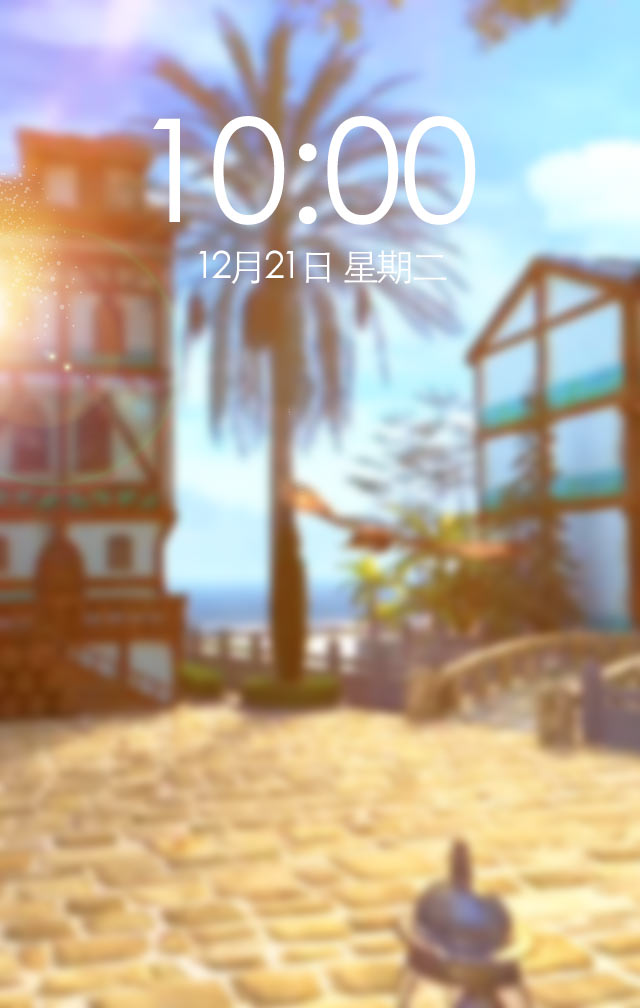
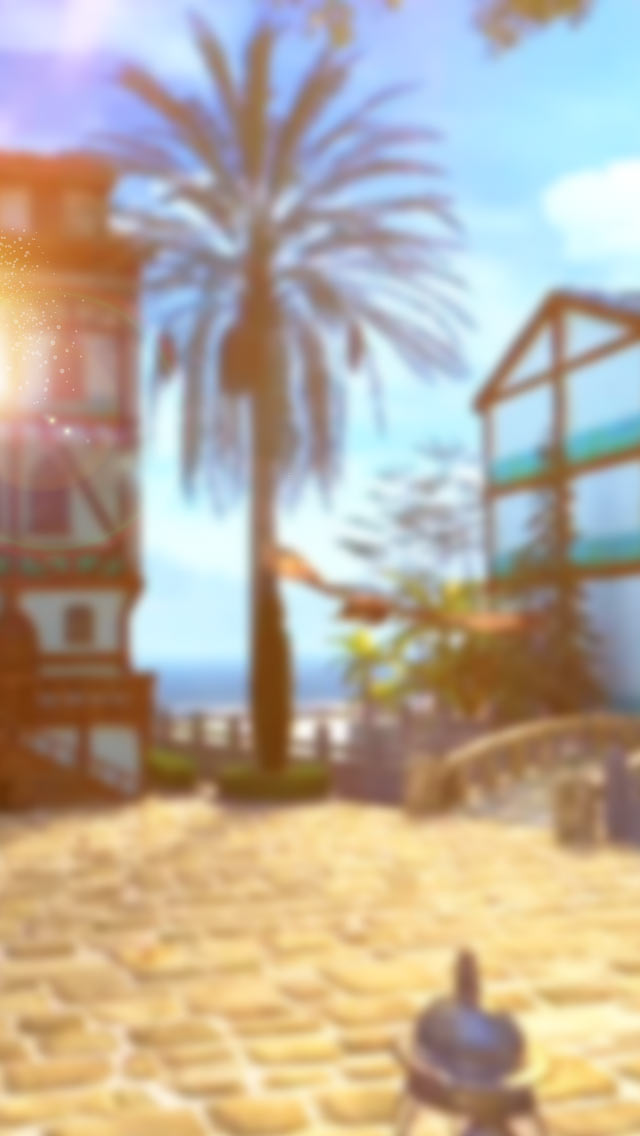
1534

diff --git a/视频测试/css/style.css b/视频测试/css/style.css
@@ -60,7 +60,8 @@ html,body{
 html,body {width: 100%;height:100%; overflow: hidden;}
 .content{width: 640px; margin: 0 auto;}
 .page{position: absolute;top:0;left:0;width: 100%;height:100%;}
-.page1{z-index: 2;}
+.page1{z-index: 2;background: url(../images/bg.jpg) no-repeat;-webkit-background-size: 100% auto;
+background-size: 100% auto;}
 .page2{z-index: 1;}
 #page-wrap { width: 610px;height:123px; position: absolute;bottom:10%;left:15px;}
 /*#well {padding: 14px 20px 10px 20px;border-radius: 30px;background: -webkit-gradient(linear,left top,left bottom,color-stop(0, #010101),color-stop(1, #181818));border: 2px solid #454545;}*/
@@ -69,8 +70,8 @@ html,body {width: 100%;height:100%; overflow: hidden;}
 .slider_box{width:676px ;height:98px; overflow: hidden;z-index:999;}
 #slider {position: absolute;top:18px;left:50px;width: 146px;height: 98px;-webkit-background-size: 100% auto;
 background-size: 100% auto;}
-.video-box{background-color: #000;position: absolute;top: 50%;left: 50%;z-index: 8;width: 730px;height: 100%;overflow: hidden;transform:translate(-50%,-50%);-webkit-transform:translate(-50%,-50%);}
-.video{width: 100%;}
+.video-box{position: absolute;top: 50%;left: 50%;z-index: 8;width: 640px;height: 100%;overflow: hidden;transform:translate(-50%,-50%);-webkit-transform:translate(-50%,-50%);}
+
 .page1-con{width: 100%;padding-top: 66.55%;position: absolute;top: 0;left: 0;background: url(../images/bg.jpg) no-repeat;height: 100%;-webkit-background-size: 100% auto;
 background-size: 100% auto;}
   @-webkit-keyframes slidetounlock {0% {background-position: -720px 0;}100%{background-position: 720px 0;}}
@@ -107,7 +108,8 @@ background-size: 100% auto;}
 /* -webkit-transform: none;*/
 /* -ms-transform: none;*/
 /* transform: none;}*/
-
+.page1 .nickname{font-size: 12rem; display: block;line-height: 11rem;}
+.page1 .txt{overflow: hidden;text-align: center;padding-top: 150px;font-size: 2.8rem;color: #fff;line-height: 2.5rem;}
 
 .spe{ background-size: 100% auto; background-repeat: no-repeat;}
 .page3{width: 640px; height: 100%;background-image: url("../images/bg_end.jpg");}
@@ -136,6 +138,19 @@ background-size: 100% auto;}
 
 .down_bg{position: absolute;top:0;left:0;text-align: center;width: 100%;z-index: 100;display: none;}
 
+.video-box.anim{
+  -webkit-animation:test 3s steps(30,end) both;
+  animation:test 3s steps(30,end) infinite both;
+  background:url(../images/anim.jpg) repeat-x;
+  /*animation-timing-function:linear;*/
+}
 
-
+@-webkit-keyframes test {
+  0% {background-position:0 0;}
+  100% {background-position:-3000% 0;}
+}
+@keyframes test {
+  0% {background-position:0 0;}
+  100% {background-position: -3000% 0;}
+}
 

diff --git a/视频测试/index.html b/视频测试/index.html
@@ -33,7 +33,12 @@
 <body>
   <div class="content">
      <div class="page page1" id="page1" >
+        <div class="txt">
+             <span class="nickname">10:00</span>
+             <span>12月21日 &nbsp;&nbsp;星期二</span>
+        </div>      
       <div id="page-wrap">
+
         <div id="well">
              <h2>&gt; 滑动以解锁</h2>
              <div class="slider_box"><strong id="slider"></strong></div>
@@ -43,8 +48,6 @@
 
     <div class="page page2">
         <div class="video-box">
-           <video class="video" data-index="1" id="v1"  x-webkit-airplay="true" webkit-playsinline="true" preload="auto"  src="images/3.mp4" ></video>
-          <div class="page1-con"></div>
         </div>
     </div>    
 
@@ -70,7 +73,64 @@
 
 </body>
 <script type="text/javascript" src="js/zepto(mixNIE).last.js"></script>
-<script type="text/javascript" src="js/index.js"></script>
+<!-- <script type="text/javascript" src="js/index.js"></script> -->
+<script type="text/javascript">
+  
+ var  oBox = document.getElementById("page1");
+ var  oDiv = document.getElementById("slider");
+
+ var startX = 0 ,startY = 0 ,moveEndX = 0 ,moveEndY = 0 ,disX = 0 ,disY = 0 ,oldX = 0,oldY = 0;
+
+
+function start(e){
+   oDiv.style.transition="none";
+   e.preventDefault();
+   startX = e.changedTouches[0].clientX;
+   startY = e.changedTouches[0].clientY;
+   oldX = parseInt(getComputedStyle(this,null).left);
+   oldY = parseInt(getComputedStyle(this,null).top);
+}
+
+function move(e){
+   e.preventDefault();
+   moveEndX = e.changedTouches[0].clientX;
+   moveEndY = e.changedTouches[0].clientY;
+   disX = moveEndX - startX;
+   disY = moveEndY - startY;
+   if ( Math.abs(disX) > Math.abs(disY) && disX > 0 ) {  
+        // console.log(disX);
+        if(disX >= 150){ 
+
+        setTimeout(function (){
+          $(".page1,.page1-con").hide(),
+          $(".video-box").addClass('anim');
+        },200)      
+        // if($(".video-box").hasClass('anim')){
+          // alert(message)
+          setTimeout(function(){
+            $(".page2").hide();
+            $(".page3").addClass("show-end");
+          },3300)
+        // }  
+        }
+        this.style.left = (oldX+disX) + "px";
+   }
+}
+
+  oDiv.addEventListener("touchstart",start,false);
+  oDiv.addEventListener("touchmove",move,false);
+
+  oDiv.addEventListener("touchend",function(){
+     if(disX < 320){
+       oDiv.style.left="50px";
+       oDiv.style.transition="left 1s";
+     }
+  },false);
+
+
+</script>
+
+
 
 <script>
  //禁止滑动

diff --git a/视频测试/js/index.js b/视频测试/js/index.js
@@ -23,21 +23,23 @@ function move(e){
    if ( Math.abs(disX) > Math.abs(disY) && disX > 0 ) {  
         // console.log(disX);
         if(disX >= 150){ 
-          // disX = 420,
-          $("#v1")[0].play();
-
+          if (browser.versions.android){
+            $(".video-box").attr("controls",true)
+          }
         setTimeout(function (){
           $(".page1,.page1-con").hide();
-        },200)
+        },200)      
+            
+        $("#v1")[0].play();
 
         }
         this.style.left = (oldX+disX) + "px";
    }
 }
-  $("#v1")[0].addEventListener("canplay",function(evt) {
-    alert("我准备好了");
-  });  
-$("#v1")[0].onloadstart=alert("我在加载了");
+//   $("#v1")[0].addEventListener("canplay",function(evt) {
+//     alert("我准备好了");
+//   });  
+// $("#v1")[0].onloadstart=alert("我在加载了");
 
   oDiv.addEventListener("touchstart",start,false);
   oDiv.addEventListener("touchmove",move,false);
